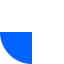
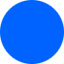
sync line indicators

diff --git a/src/server/window.cpp b/src/server/window.cpp
@@ -149,20 +149,18 @@ bool UIWindow::init()
 		source_view->set_show_line_numbers(true);
 		source_view->set_editable(false);
 		source_view->set_show_line_marks(true);
-		for (int i = 0; i < m_num_processes && i < NUM_MARKS; ++i)
+		string filename = "./res/arrow.png";
+		// string filename = "./res/mark_" + std::to_string(i) + ".png";
+		char *path = realpath(filename.c_str(), nullptr);
+		if (path == nullptr)
 		{
-			string filename = "./res/mark_" + std::to_string(i) + ".png";
-			char *path = realpath(filename.c_str(), nullptr);
-			if (path == nullptr)
-			{
-				std::cerr << "Cannot find file: " << filename << "\n";
-				return false;
-			}
-			auto attributes = Gsv::MarkAttributes::create();
-			attributes->set_icon(Gio::Icon::create(path));
-			source_view->set_mark_attributes(m_where_categories[i], attributes, 100);
-			free(path);
+			std::cerr << "Cannot find file: " << filename << "\n";
+			return false;
 		}
+		auto attributes = Gsv::MarkAttributes::create();
+		attributes->set_icon(Gio::Icon::create(path));
+		source_view->set_mark_attributes(m_where_categories[i], attributes, 100);
+		free(path);
 		m_scrolled_windows_sw[i].set_size_request(width, height);
 		m_scrolled_windows_sw[i].add(m_source_views[i]);
 		m_grid.attach(m_scrolled_windows_sw[i], 4, (2 * i), 1, 1);
@@ -211,24 +209,31 @@ bool UIWindow::init()
 	return true;
 }
 
-void UIWindow::get_mark_pos(const int a_process_rank)
+void UIWindow::get_mark_pos(const int)
 {
-	auto source_view = &m_source_views[a_process_rank];
-	auto source_buffer = source_view->get_source_buffer();
-	auto where_marker = source_view->get_source_buffer()->get_mark(m_where_marks[a_process_rank]);
-	auto line_iter = source_buffer->get_iter_at_line(m_current_line[a_process_rank] - 1);
-	if (!line_iter || !where_marker)
+	for (int rank = 0; rank < m_num_processes; ++rank)
 	{
-		return;
+		auto source_view = &m_source_views[rank];
+		auto source_buffer = source_view->get_source_buffer();
+		auto adjustment = m_scrolled_windows_sw[rank].get_vadjustment();
+
+		for (int i = 0; i < m_num_processes; ++i)
+		{
+			auto line_iter = source_buffer->get_iter_at_line(m_current_line[rank] - 1);
+			if (!line_iter || m_source_view_path[rank] != m_source_view_path[rank])
+			{
+				m_draw_areas[rank]->set_y_offset(rank, -2 * UIDrawingArea::radius() - 1); // set out of visible area
+				continue;
+			}
+
+			Gdk::Rectangle rect;
+			source_view->get_iter_location(line_iter, rect);
+
+			int draw_pos = rect.get_y() - int(adjustment->get_value());
+			m_draw_areas[rank]->set_y_offset(rank, draw_pos);
+		}
+		m_draw_areas[rank]->queue_draw();
 	}
-	Gdk::Rectangle rect;
-	source_view->get_iter_location(line_iter, rect);
-
-	auto adjustment = m_scrolled_windows_sw[a_process_rank].get_vadjustment();
-	int draw_pos = rect.get_y() - adjustment->get_value();
-
-	m_draw_areas[a_process_rank]->draw_pos(draw_pos);
-	m_draw_areas[a_process_rank]->queue_draw();
 
 	// rect.get_y();
 	// adjustment->get_value();

diff --git a/src/server/canvas.cpp b/src/server/canvas.cpp
@@ -1,27 +1,50 @@
 #include <string>
 #include "canvas.hpp"
+#include "window.hpp"
+
+const Gdk::RGBA UIDrawingArea::colors[] = {
+	Gdk::RGBA("#FF0000"),
+	Gdk::RGBA("#00FF00"),
+	Gdk::RGBA("#0000FF"),
+	Gdk::RGBA("#FFFF00")};
+
+const int UIDrawingArea::m_radius = 8;
+const int UIDrawingArea::m_spacing = 4;
 
 UIDrawingArea::UIDrawingArea(const int a_num_processes, const int a_process_rank)
 	: m_num_processes(a_num_processes),
 	  m_process_rank(a_process_rank),
-	  m_draw_pos(0)
+	  m_y_offsets(new int[m_num_processes])
 {
-	m_images = new Glib::RefPtr<Gdk::Pixbuf>[m_num_processes];
-	string filename = string("./res/arrow.png");
-	// string filename = string("./res/mark_") + std::to_string(m_process_rank) + string(".png");
-	try
-	{
-		m_images[m_process_rank] = Gdk::Pixbuf::create_from_file(filename);
-	}
-	catch (const std::exception &e)
-	{
-		std::cerr << e.what() << '\n';
-	}
+}
+
+void UIDrawingArea::set_y_offset(const int a_process_rank, const int a_offset)
+{
+	m_y_offsets[a_process_rank] = a_offset;
 }
 
 bool UIDrawingArea::on_draw(const Cairo::RefPtr<Cairo::Context> &a_context)
 {
-	Gdk::Cairo::set_source_pixbuf(a_context, m_images[m_process_rank], 0, m_draw_pos);
-	a_context->paint();
+	for (int rank = 0; rank < m_num_processes; ++rank)
+	{
+		if (m_y_offsets[rank] > -2 * m_radius - 1)
+		{
+			a_context->save();
+			a_context->arc(
+				rank * (2 * m_radius + m_spacing) + m_radius,
+				m_y_offsets[rank] + m_radius,
+				m_radius,
+				0.0,
+				2.0 * M_PI);
+			a_context->set_source_rgba(
+				colors[rank].get_red(),
+				colors[rank].get_green(),
+				colors[rank].get_blue(),
+				colors[rank].get_alpha());
+			a_context->fill();
+			a_context->restore();
+		}
+	}
+
 	return true;
 }

diff --git a/src/server/canvas.hpp b/src/server/canvas.hpp
@@ -6,10 +6,13 @@
 
 class UIDrawingArea : public Gtk::DrawingArea
 {
+	static const Gdk::RGBA colors[];
+	static const int m_radius;
+	static const int m_spacing;
+
 	const int m_num_processes;
 	const int m_process_rank;
-	int m_draw_pos;
-	Glib::RefPtr<Gdk::Pixbuf> *m_images;
+	int *const m_y_offsets;
 
 protected:
 	virtual bool on_draw(const Cairo::RefPtr<Cairo::Context> &a_context);
@@ -18,14 +21,11 @@ public:
 	UIDrawingArea(const int a_num_processes, const int a_process_rank);
 	virtual ~UIDrawingArea() {}
 
-	inline void draw_pos(const int a_draw_pos)
-	{
-		m_draw_pos = a_draw_pos;
-	}
+	void set_y_offset(const int a_process_rank, const int a_offset);
 
-	inline int draw_pos() const
+	inline static int radius()
 	{
-		return m_draw_pos;
+		return m_radius;
 	}
 };
 
